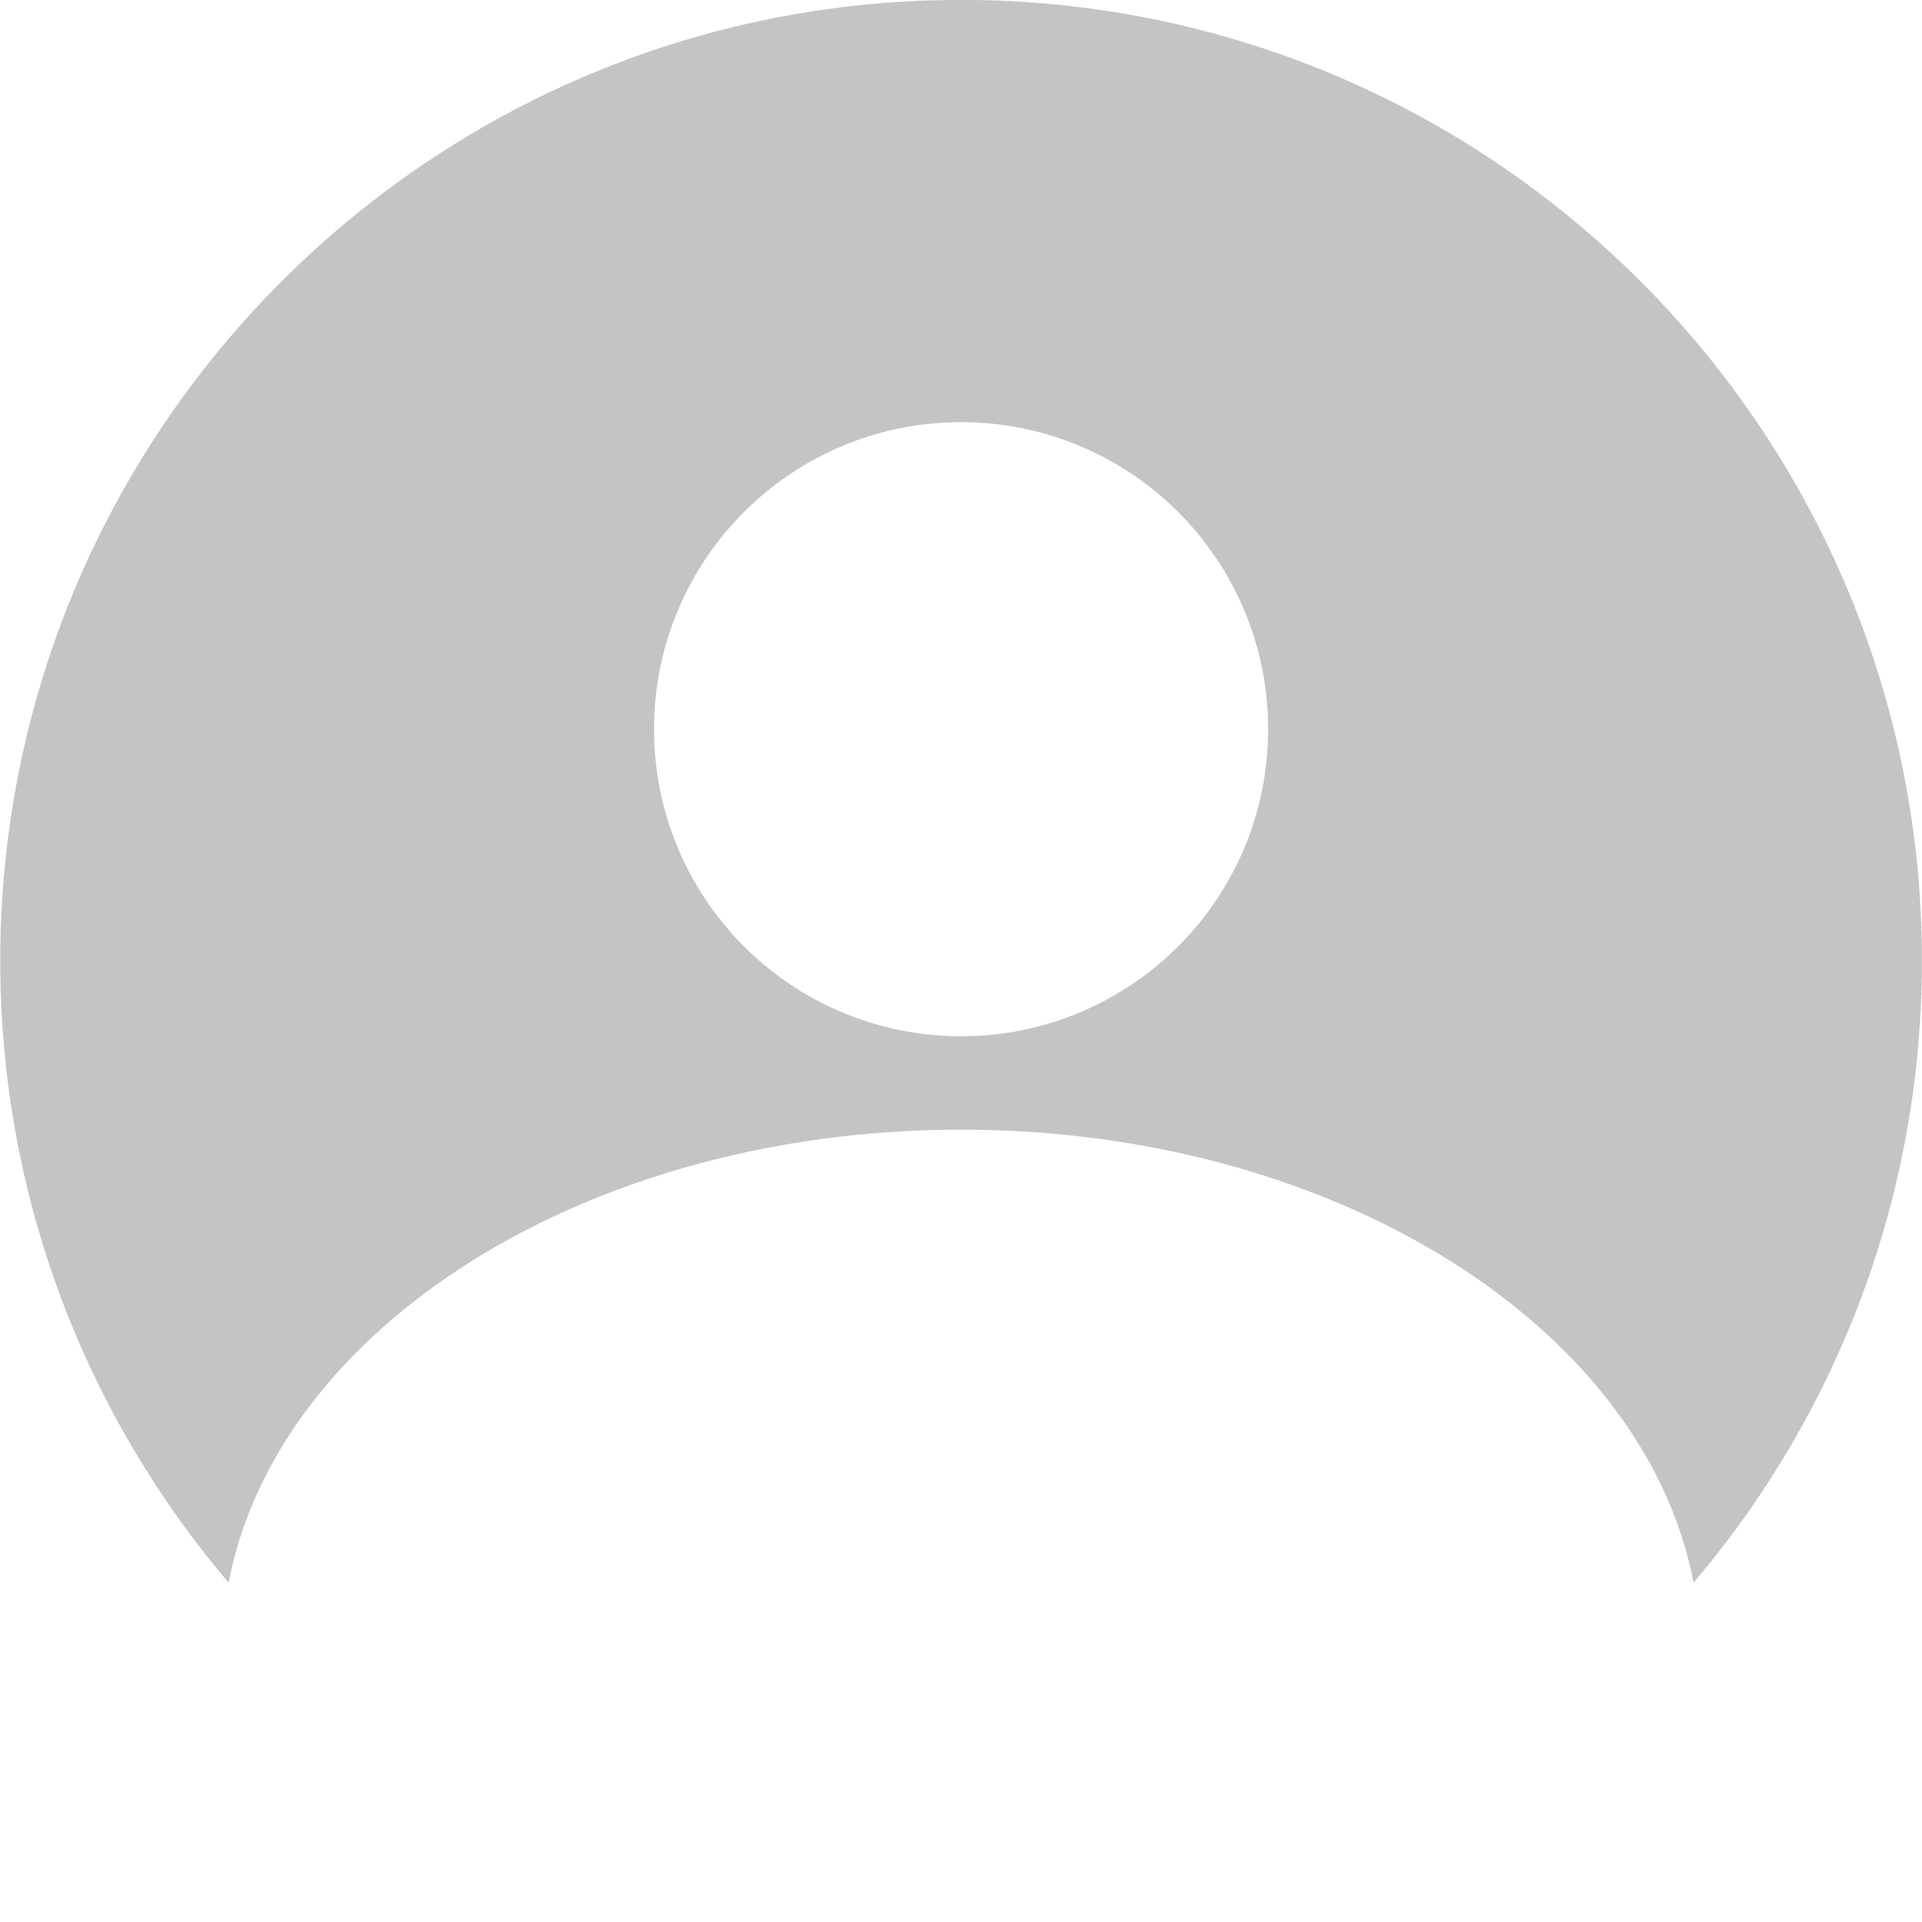
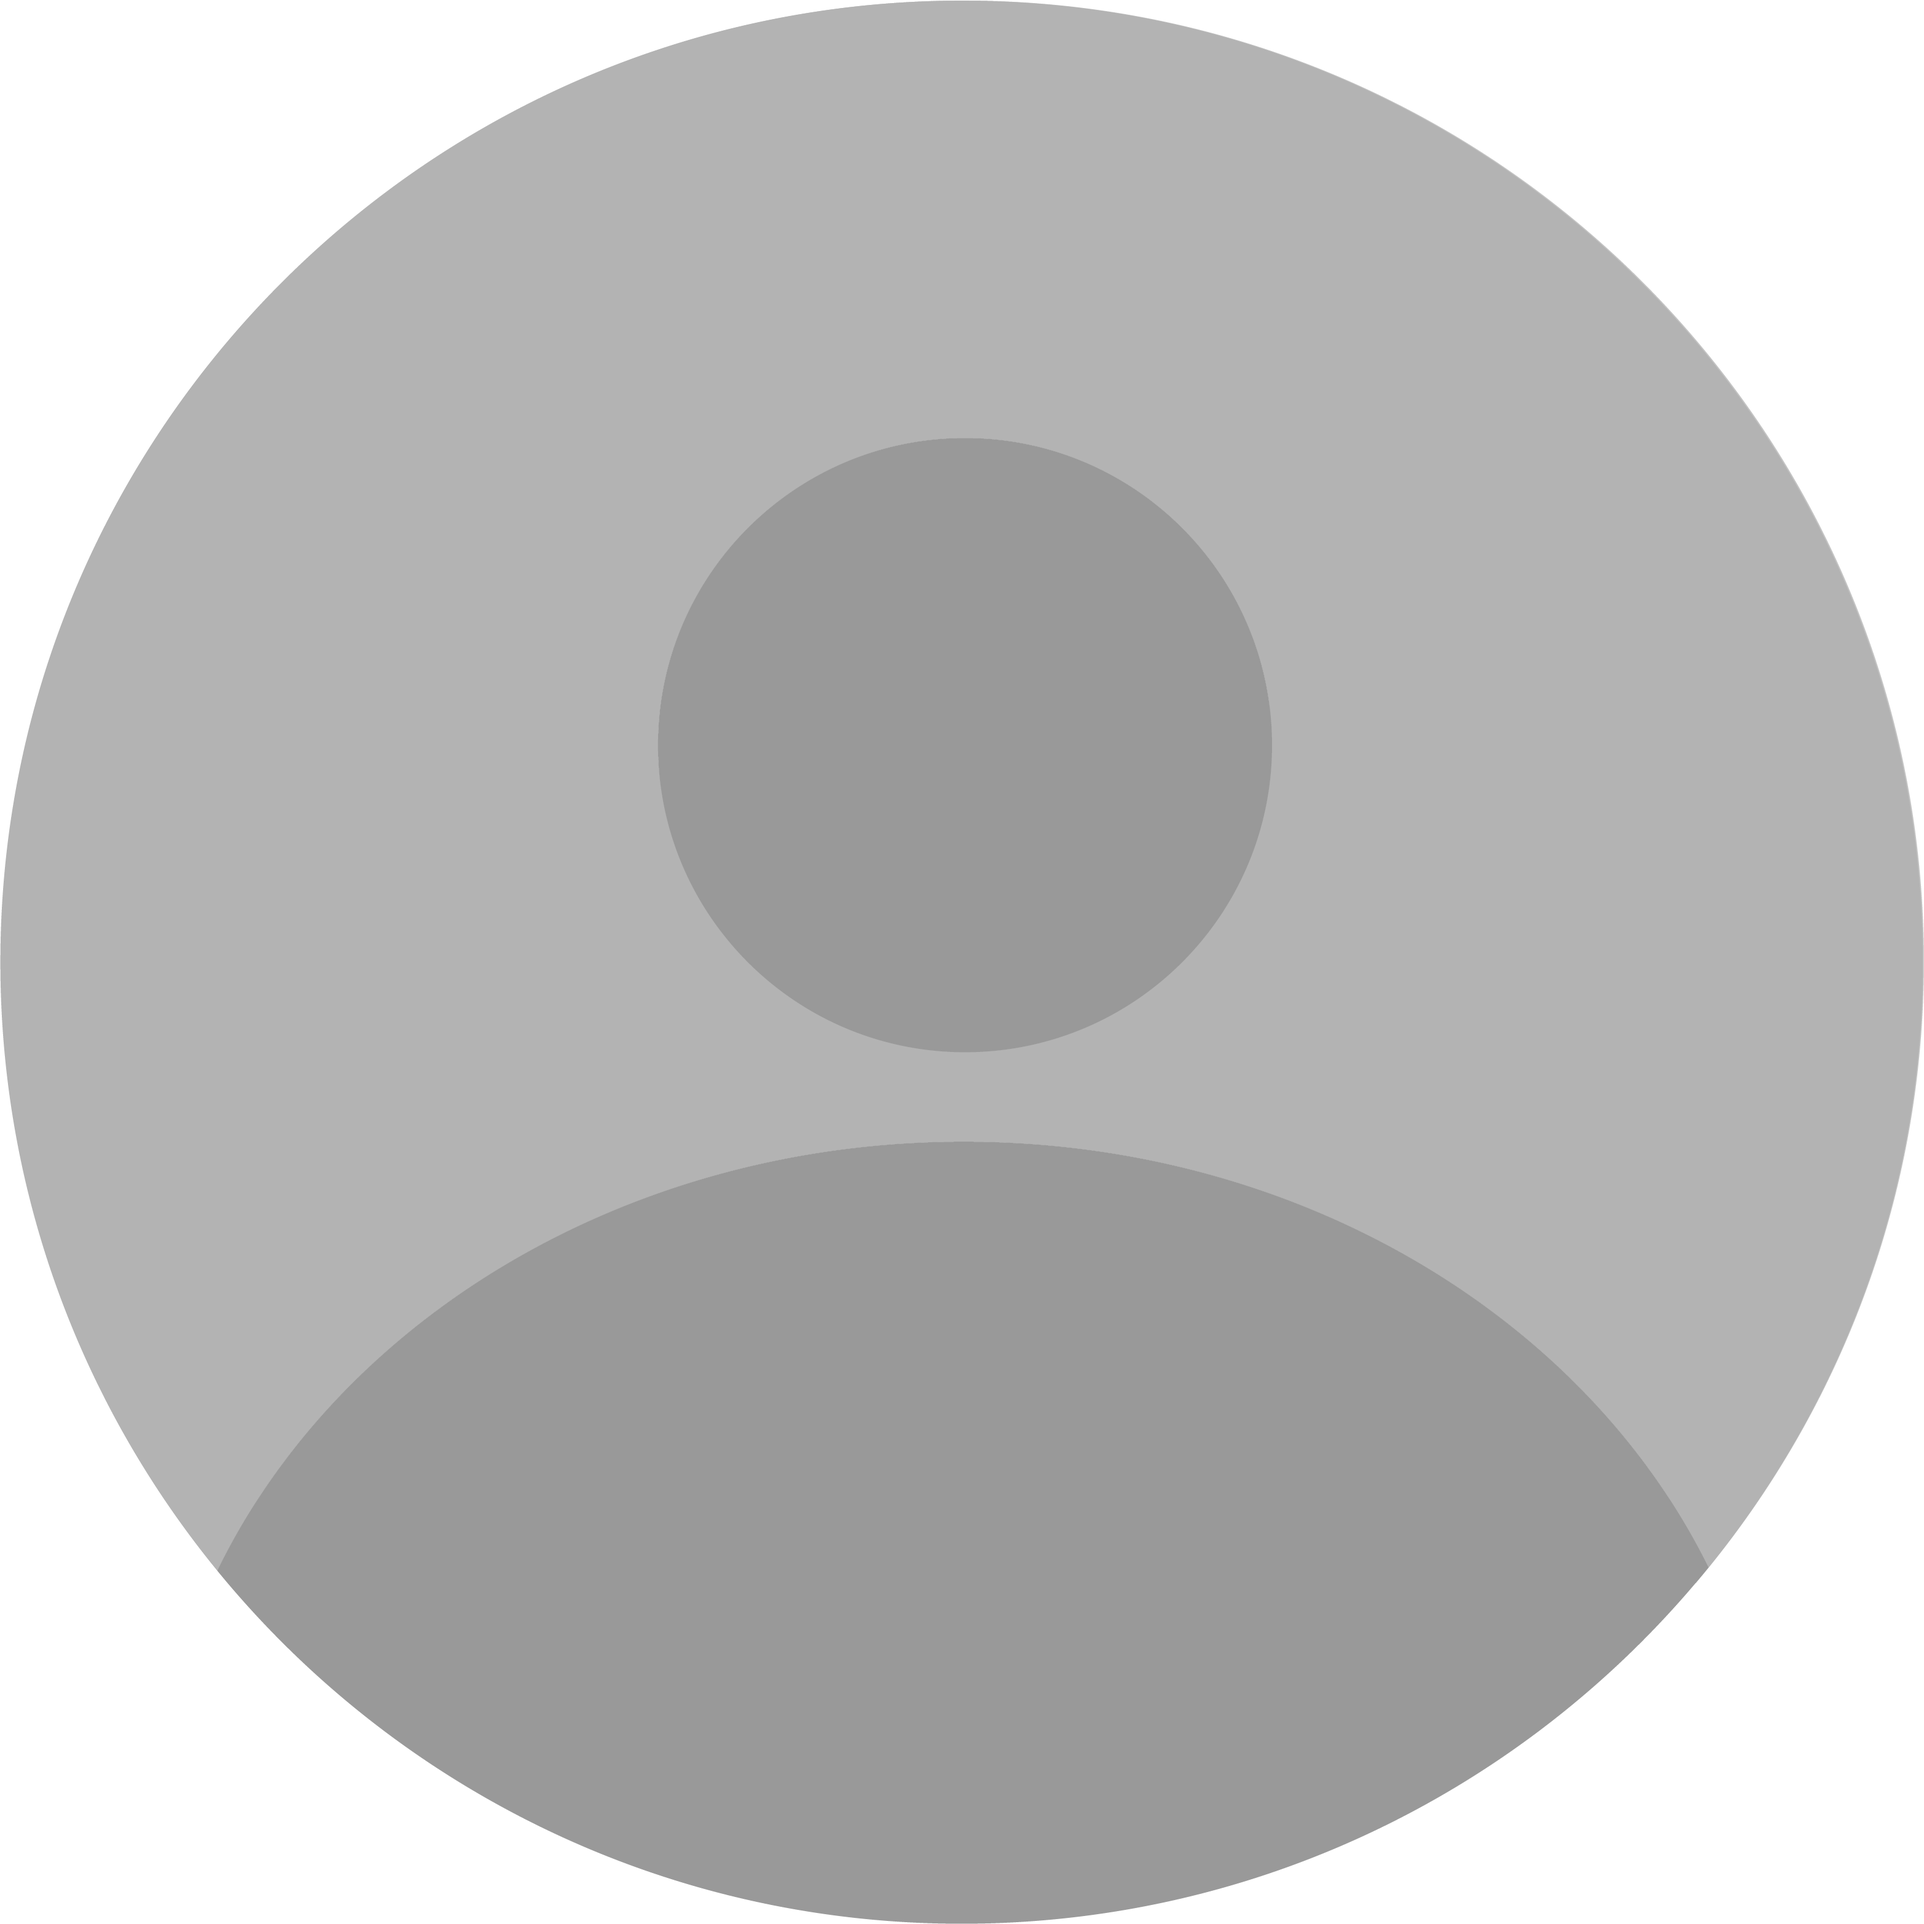
chore: Fix display mypage profile image

diff --git a/hackathon/templates/mypage/mypage.html b/hackathon/templates/mypage/mypage.html
@@ -6,7 +6,10 @@
     <link rel="stylesheet" href="../../static/css/mypage/mypage.css">
     <style>
         .profile-img {
-            background-image: url('../../media/{{current_user.iamge}}');
+            background-image: url('../../media/{{user.image}}');
+        }
+        .profile-img-big {
+            background-image: url('../../media/{{user.image}}');
         }
     </style>
     {% endblock %}
@@ -15,7 +18,9 @@
     <div class="mypage-background-img"></div>
 
     <div class="profile-box">
-        <div class="profile-img-big"></div>
+        <div class="profile-img-big">
+            <img src="../../media/{{user.image}}">
+        </div>
         <div class="profile-content">
              <div class="profile-content-item" style="font-size: 17px; font-weight: bold;">{{user.name}}</div>
              <div class="profile-content-item">{{user.intro}}</div>

diff --git a/hackathon/static/css/mypage/mypage.css b/hackathon/static/css/mypage/mypage.css
@@ -29,9 +29,14 @@
 .profile-box > .profile-img-big {
     width: 180px;
     height: 180px;
-    background-color: rgb(216, 216, 216);
+    /* background-color: rgb(216, 216, 216); */
+    /* background-image: url('../../../../media/profile_default.png'); */
     border-radius: 100%;
     margin-right: 10px;
+}
+.profile-img-big > img {
+    width: 100%;
+    height: 100%;
 }
 .profile-content {
     display: flex;

diff --git a/hackathon/static/css/chat/chat.css b/hackathon/static/css/chat/chat.css
@@ -76,7 +76,8 @@
 .profile-img {
     width: 45px;
     height: 45px;
-    background-color: rgb(192, 192, 192);
+    /* background-color: rgb(192, 192, 192); */
+    background-image: url('../../../media/profile_default.png');
     border-radius: 100%;
 }
 .chat-preview {
